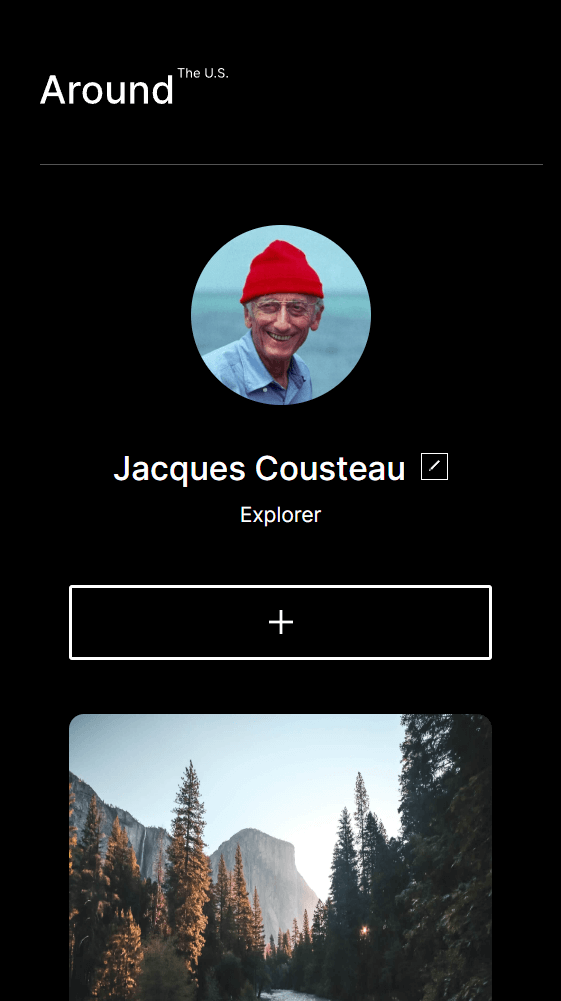
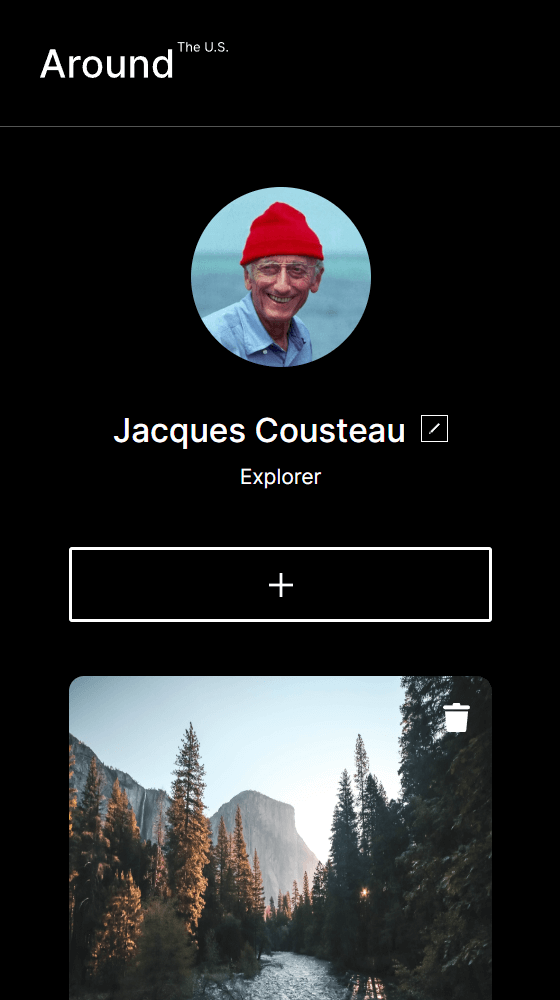
feat: add functional add-card btn, add delete card btn, add like btn, and add img preview

diff --git a/scripts/index.js b/scripts/index.js
@@ -36,6 +36,7 @@ const editProfileModal = document.querySelector("#edit-profile-modal");
 const editProfileForm = editProfileModal.querySelector("#edit-profile-form");
 const addCardModal = document.querySelector("#add-card-modal");
 const addCardForm = addCardModal.querySelector("#add-card-form");
+const previewImageModal = document.querySelector("#preview-image-modal");
 
 // Buttons
 const editProfileButton = document.querySelector("#edit-profile-button");
@@ -43,12 +44,18 @@ const editProfileCloseButton = editProfileModal.querySelector(
   "#close-profile-button"
 );
 const addCardButton = document.querySelector("#add-card-button");
-const addCardCloseButton = addCardModal.querySelector("#close-profile-button");
-const cardDeleteButton = cardTemplate.querySelector("#card-delete-button");
+const addCardCloseButton = addCardModal.querySelector("#close-add-card-button");
+const previewImageCloseButton = previewImageModal.querySelector(
+  "#close-preview-button"
+);
+
+const cardDeleteButton = cardTemplate.querySelector(".card__delete-button");
 
 // Other DOM nodes
 const profileName = document.querySelector(".profile__name");
 const profileDescription = document.querySelector(".profile__description");
+const previewImageCaption = document.querySelector("#preview-image-caption");
+const previewImage = document.querySelector("#modal-preview-image");
 
 // Form data
 const profileNameInput = document.querySelector("#profile-name-input");
@@ -92,18 +99,38 @@ function openAddCardModal() {
   openPopup(addCardModal);
 }
 
+function closePreviewImageModal() {
+  closePopup(previewImageModal);
+}
+
 function renderCard(cardData, wrapper) {
   const cardElement = getCardElement(cardData);
   wrapper.prepend(cardElement);
+}
+
+function setImageAttributes(image, title, cardData) {
+  image.setAttribute("src", cardData.link);
+  image.setAttribute("alt", cardData.name);
+  title.textContent = cardData.name;
 }
 
 function getCardElement(cardData) {
   const cardElement = cardTemplate.cloneNode(true);
   const cardImageEl = cardElement.querySelector(".card__image");
   const cardTitleEl = cardElement.querySelector(".card__title");
-  cardImageEl.setAttribute("src", cardData.link);
-  cardImageEl.setAttribute("alt", cardData.name);
-  cardTitleEl.textContent = cardData.name;
+  const cardLikeButton = cardElement.querySelector(".card__like-button");
+  const cardDeleteButton = cardElement.querySelector(".card__delete-button");
+  cardDeleteButton.addEventListener("click", () => {
+    cardElement.remove();
+  });
+  cardImageEl.addEventListener("click", () => {
+    openPopup(previewImageModal);
+    setImageAttributes(previewImage, previewImageCaption, cardData);
+  });
+  cardLikeButton.addEventListener("click", () => {
+    cardLikeButton.classList.toggle("card__like-button_active");
+  });
+  setImageAttributes(cardImageEl, cardTitleEl, cardData);
   return cardElement;
 }
 
@@ -138,7 +165,7 @@ addCardCloseButton.addEventListener("click", closeAddCardModal);
 
 addCardForm.addEventListener("submit", handleAddCardSubmit);
 
-// cardDeleteButton.addEventListener("click", deleteCard);
+previewImageCloseButton.addEventListener("click", closePreviewImageModal);
 
 // Loops
 

diff --git a/blocks/modal.css b/blocks/modal.css
@@ -1,6 +1,12 @@
 .modal {
-  display: none;
+  display: -webkit-box;
+  display: -ms-flexbox;
+  display: flex;
+  -webkit-box-pack: center;
+  -ms-flex-pack: center;
   justify-content: center;
+  -webkit-box-align: center;
+  -ms-flex-align: center;
   align-items: center;
   position: fixed;
   top: 0;
@@ -10,10 +16,22 @@
   padding: 0 19px;
   background-color: rgba(0, 0, 0, 0.5);
   z-index: 999;
+  visibility: hidden;
+  opacity: 0;
+  -webkit-transition: visibility 0s ease-in-out 0.5s, opacity 0.5s ease-in-out;
+  -o-transition: visibility 0s ease-in-out 0.5s, opacity 0.5s ease-in-out;
+  transition: visibility 0s ease-in-out 0.5s, opacity 0.5s ease-in-out;
 }
 
 .modal_opened {
+  display: -webkit-box;
+  display: -ms-flexbox;
   display: flex;
+  visibility: visible;
+  opacity: 1;
+  -webkit-transition-delay: 0s;
+  -o-transition-delay: 0s;
+  transition-delay: 0s;
 }
 
 .modal__container {
@@ -22,6 +40,7 @@
   background-color: #fff;
   padding: 36px;
   border-radius: 10px;
+  -webkit-box-shadow: 0px 0px 25px rgba(0, 0, 0, 0.15);
   box-shadow: 0px 0px 25px rgba(0, 0, 0, 0.15);
 }
 
@@ -37,6 +56,8 @@
   width: 40px;
   height: 40px;
   cursor: pointer;
+  -webkit-transition: opacity 0.3s ease-in-out 0s;
+  -o-transition: opacity 0.3s ease-in-out 0s;
   transition: opacity 0.3s ease-in-out 0s;
 }
 
@@ -54,7 +75,12 @@
 }
 
 .modal__form {
+  display: -webkit-box;
+  display: -ms-flexbox;
   display: flex;
+  -webkit-box-orient: vertical;
+  -webkit-box-direction: normal;
+  -ms-flex-direction: column;
   flex-direction: column;
 }
 
@@ -87,11 +113,38 @@
   font-size: 18px;
   line-height: 1.2;
   cursor: pointer;
+  -webkit-transition: opacity 0.3s ease-in-out 0s;
+  -o-transition: opacity 0.3s ease-in-out 0s;
   transition: opacity 0.3s ease-in-out 0s;
 }
 
 .modal__button:hover {
   opacity: 0.8;
+}
+
+.modal__preview-container {
+  position: relative;
+}
+
+.modal__preview-image {
+  max-height: 540px;
+}
+
+.modal__caption {
+  margin: 10px 0 0;
+  font-family: "Inter", "Arial", sans-serif;
+  font-weight: 400;
+  font-size: 12px;
+  line-height: 1.2;
+}
+
+@media screen and (max-width: 936px) {
+  .modal__preview-image {
+    max-width: 100%;
+  }
+  .modal__preview-container {
+    max-width: calc(100% - 80px);
+  }
 }
 
 @media screen and (max-width: 560px) {

diff --git a/index.html b/index.html
@@ -88,7 +88,7 @@
       <div class="modal__container">
         <button
           class="modal__close"
-          id="close-profile-button"
+          id="close-add-card-button"
           type="button"
         ></button>
         <h2 class="modal__heading">New Place</h2>
@@ -113,14 +113,27 @@
         </form>
       </div>
     </div>
+    <!-- Preview Image Modal -->
+    <div class="modal" id="preview-image-modal">
+      <div class="modal__preview-container">
+        <button
+          class="modal__close"
+          id="close-preview-button"
+          type="button"
+        ></button>
+        <img
+          class="modal__preview-image"
+          id="modal-preview-image"
+          src="#"
+          alt="#"
+        />
+        <p class="modal__caption" id="preview-image-caption"></p>
+      </div>
+    </div>
     <!-- Card Template -->
     <template id="card-template">
       <li class="card">
-        <button
-          class="card__delete-button"
-          id="card-delete-button"
-          type="button"
-        ></button>
+        <button class="card__delete-button" type="button"></button>
         <img class="card__image" src="" alt="" />
         <div class="card__info">
           <h2 class="card__title"></h2>

diff --git a/blocks/card.css b/blocks/card.css
@@ -20,14 +20,22 @@
   border: none;
   width: 18px;
   height: 19px;
+  -webkit-transition: opacity 0.3s ease-in-out 0s;
+  -o-transition: opacity 0.3s ease-in-out 0s;
+  transition: opacity 0.3s ease-in-out 0s;
 }
 
 .card__delete-button:hover {
+  opacity: 0.6;
   cursor: pointer;
 }
 
 .card__image {
   height: 282px;
+}
+
+.card__image:hover {
+  cursor: pointer;
 }
 
 .card__info {
@@ -69,6 +77,10 @@
   -webkit-transition: opacity 0.3s ease-in-out 0s;
   -o-transition: opacity 0.3s ease-in-out 0s;
   transition: opacity 0.3s ease-in-out 0s;
+}
+
+.card__like-button_active {
+  background: url(../images/like-active.svg);
 }
 
 .card__like-button:hover {

diff --git a/README.md b/README.md
@@ -1,23 +1,8 @@
-# Project 3: Around The U.S.
+# Around The U.S.
 
 ## Author: Timothy Chan
 
-### Summery
-
-This project showcases Jacques Cousteau, an explorer, with images of various locations including:
-
-- Yosemite Valley
-- Lake Louise
-- Bald Mountains
-- Latemar
-- Vanoise National Park
-- Lago di Braies
-
-The site is responsive to various different screen widths including:
-
-- Mobile devices
-- Tablets
-- Desktops
+### Summary
 
 This project displays applying HTML and CSS skills like:
 
@@ -31,6 +16,27 @@ This project displays applying HTML and CSS skills like:
 - Grid
 - Grid with flexbox
 - Media Queries
+- Templates
+- Modal Application
+- Refactoring
+
+This project also showcases JavaScript applications:
+
+- Query selectors
+- Array lists
+- Objects
+- Loops (ForEach)
+- DOM
+- Functions
+- Universal functions (Don't repeat code)
+- Event handlers
+- Event listeners
+
+The site is responsive to various different screen widths including:
+
+- Mobile devices
+- Tablets
+- Desktops
 
 **Page Link**
 
@@ -43,3 +49,7 @@ This project displays applying HTML and CSS skills like:
 ![Tablet_Site](./images/site-tablet.PNG)
 
 ![Mobile_Site](./images/site-mobile.PNG)
+
+![Edit_Profile_Modal](./images/edit-profile-modal.PNG)
+
+![Add_Card_Modal](./images/add-profile-modal.PNG)
